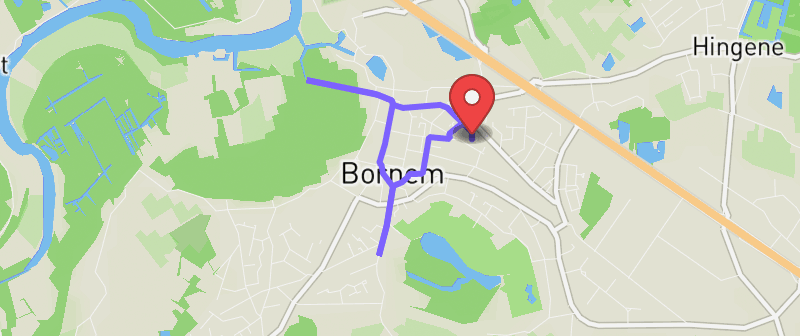
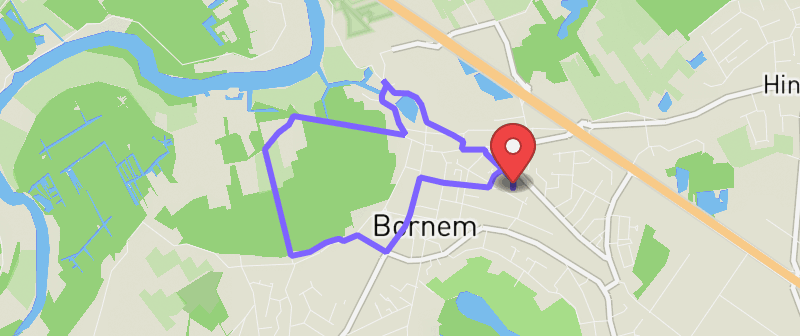
fix(landing): clean up demo-route previews that rendered dead-end spurs
The Sunday-walk loop and the routegen loop produced out-and-back
spurs: waypoints snapped to side paths, and the old routegen route
pointed at the Baasrode ferry, which the cycling profile detours
around. Re-anchored both on the road/walking network (verified by
measuring the duplicated-segment fraction of the Directions geometry:
29% -> 4% for the walk, 14% -> 2% for the loop).

diff --git a/apps/landing/lib/demo-routes.ts b/apps/landing/lib/demo-routes.ts
@@ -59,11 +59,14 @@ export const SHARING_ROUTES: DemoRoute[] = [
 	{
 		slug: "sunday-slow-walk",
 		profile: "walking",
+		// Anchored on the walking network around the Oude Schelde so the
+		// Directions result is a clean loop instead of out-and-back spurs.
 		waypoints: [
-			[4.2422, 51.0973], // Bornem castle
-			[4.2255, 51.1014], // Oude Schelde
-			[4.2326, 51.0901], // Marselaer
-			[4.2422, 51.0973],
+			[4.2421, 51.0975], // Bornem castle
+			[4.2303, 51.1036], // Oude Schelde, north bank
+			[4.2201, 51.0999], // Weert
+			[4.2306, 51.0938], // Marselaer
+			[4.2421, 51.0975],
 		],
 	},
 ];
@@ -81,16 +84,17 @@ export const FOREST_WALK: DemoRoute = {
 	],
 };
 
-// RouteGen "generated loop" preview.
+// RouteGen "generated loop" preview. East-bank villages only (the old route
+// pointed at the Baasrode ferry, which the cycling profile detours around).
 export const ROUTEGEN_LOOP: DemoRoute = {
 	slug: "routegen-loop",
 	profile: "cycling",
 	waypoints: [
-		[4.2069, 51.0566],
-		[4.1693, 51.0796],
-		[4.1989, 51.0921],
-		[4.2445, 51.0851],
-		[4.2069, 51.0566],
+		[4.2068, 51.0568], // Sint-Amands
+		[4.2374, 51.0866], // Branst
+		[4.2606, 51.0637], // Oppuurs
+		[4.2429, 51.0443], // Malderen
+		[4.2068, 51.0568],
 	],
 };
 
